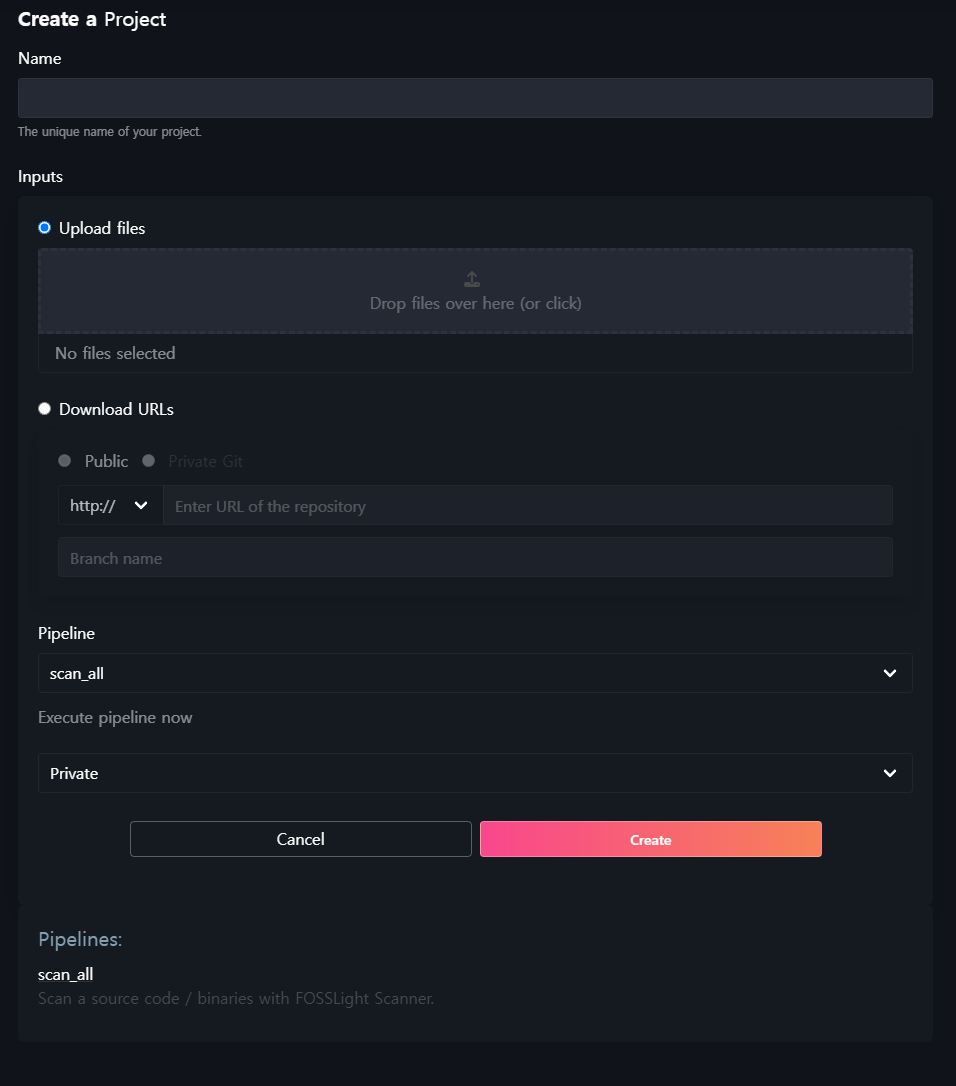
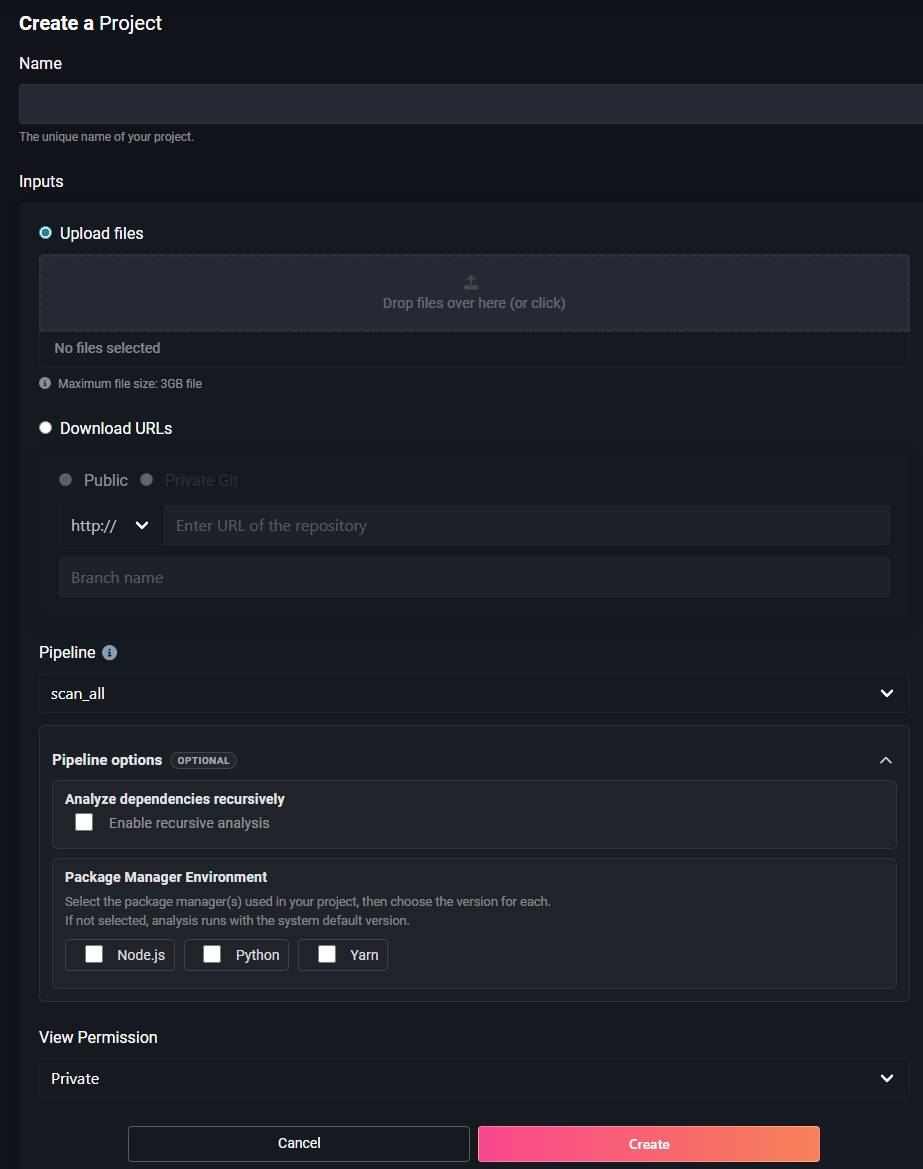
docs(fl_ss): update pipeline options

diff --git a/scanner_service/README.md b/scanner_service/README.md
@@ -54,6 +54,9 @@ Source, binary and dependency analysis is performed using [FOSSLight Scanner](ht
         - source : Analyze only the source code.
         - binary : Analyze only binary.
         - dependency : Analyze only dependency.
+    - **Pipeline options (Optional)**
+        - Analyze dependencies recursively : To analyze dependencies recursively by detecting manifest files in all subdirectories as well as the project's top-level directory, check the 'Enable recursive analysis' checkbox.
+        - Package Manager Environment : If you want to use a specific version of a package manager during dependency analysis, select the language or package manager, and then choose your desired version from the version list.
     - **Permission**
         - Private : Only the creator can view.
         - Public : Other people can view the project and download analysis results through the link.